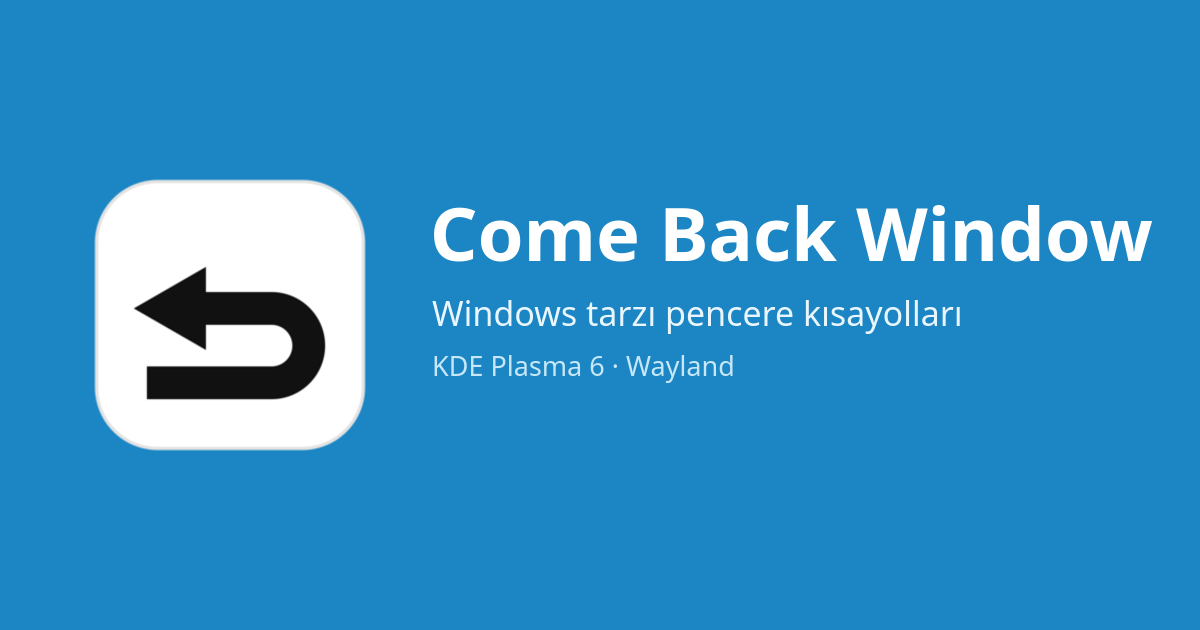
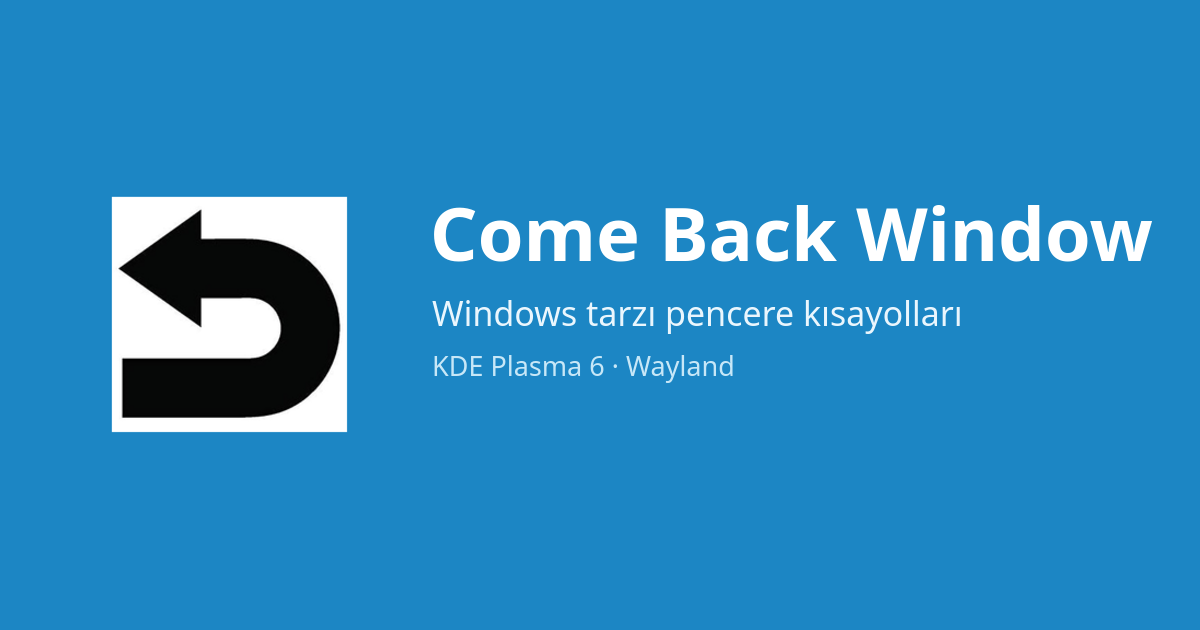
feat(branding): kullanıcı görselinden yuvarlatılmış simge ve çeviri kataloğu
Simgeler artık kullanıcının verdiği comeback.jpg dosyasından üretiliyor: %84 ölçek, yuvarlatılmış köşeler, saydam kenarlar. Tepsi yedek simgesi aynı görseli çiziyor. Geliştirme sırasında İngilizce çeviri kataloğu build/locale altından yükleniyor.

Changed region(s): [[0.0617, 0.2714, 0.3083, 0.7238]]

diff --git a/src/tray.c b/src/tray.c
@@ -90,17 +90,35 @@ static GVariant *build_pixmap(void)
         CAIRO_FORMAT_ARGB32, size, size);
     cairo_t *cr = cairo_create(surface);
 
-    cairo_set_source_rgba(cr, 0.24, 0.68, 0.91, 1.0);
-    cairo_rectangle(cr, 0, 0, size, size);
-    cairo_fill(cr);
+    /* Kullanicinin sagladigi simge: beyaz yuvarlatilmis kare + geri oku. */
+    cairo_set_source_rgba(cr, 0, 0, 0, 0);
+    cairo_paint(cr);
+    gdouble r = 4.5;
+
+    cairo_new_sub_path(cr);
+    cairo_arc(cr, 0.5 + r, 0.5 + r, r, G_PI, 1.5 * G_PI);
+    cairo_arc(cr, size - 0.5 - r, 0.5 + r, r, 1.5 * G_PI, 2.0 * G_PI);
+    cairo_arc(cr, size - 0.5 - r, size - 0.5 - r, r, 0, 0.5 * G_PI);
+    cairo_arc(cr, 0.5 + r, size - 0.5 - r, r, 0.5 * G_PI, G_PI);
+    cairo_close_path(cr);
     cairo_set_source_rgba(cr, 1, 1, 1, 1);
-    cairo_set_line_width(cr, 2.6);
-    cairo_set_line_cap(cr, CAIRO_LINE_CAP_ROUND);
-    cairo_set_line_join(cr, CAIRO_LINE_JOIN_ROUND);
-    cairo_move_to(cr, 13.5, 5.5);
-    cairo_line_to(cr, 7.5, 11);
-    cairo_line_to(cr, 13.5, 16.5);
+    cairo_fill(cr);
+
+    cairo_save(cr);
+    cairo_scale(cr, size / 256.0, size / 256.0);
+    cairo_set_source_rgba(cr, 0.07, 0.07, 0.07, 1.0);
+    cairo_set_line_width(cr, 30.0);
+    cairo_move_to(cr, 52, 190);
+    cairo_line_to(cr, 166, 190);
+    cairo_arc(cr, 166, 156, 34, 0.5 * G_PI, -0.5 * G_PI);
+    cairo_line_to(cr, 104, 122);
     cairo_stroke(cr);
+    cairo_move_to(cr, 40, 122);
+    cairo_line_to(cr, 106, 84);
+    cairo_line_to(cr, 106, 160);
+    cairo_close_path(cr);
+    cairo_fill(cr);
+    cairo_restore(cr);
     cairo_destroy(cr);
     cairo_surface_flush(surface);
 

diff --git a/src/i18n.c b/src/i18n.c
@@ -5,13 +5,46 @@
 
 #include <libintl.h>
 
+/* Kurulu katalog yoksa depodaki `po/` dizinini kullan (geliştirme). */
+static gchar *locale_dir(void)
+{
+    const gchar *override = g_getenv("CBW_LOCALE_DIR");
+
+    if (override != NULL && *override != '\0') {
+        return g_strdup(override);
+    }
+    GError *error = NULL;
+    gchar *exe = g_file_read_link("/proc/self/exe", &error);
+
+    if (exe == NULL) {
+        g_clear_error(&error);
+        return g_build_filename(CBW_DATADIR, "locale", NULL);
+    }
+    gchar *exe_dir = g_path_get_dirname(exe);
+    gchar *root = g_path_get_dirname(exe_dir);
+    gchar *local = g_build_filename(root, "build", "locale", NULL);
+    gchar *catalog = g_build_filename(local, "en", "LC_MESSAGES",
+                                      "comebackwindow.mo", NULL);
+    gboolean has_catalog = g_file_test(catalog, G_FILE_TEST_IS_REGULAR);
+
+    g_free(catalog);
+    g_free(exe);
+    g_free(exe_dir);
+    g_free(root);
+    if (has_catalog) {
+        return local;
+    }
+    g_free(local);
+    return g_build_filename(CBW_DATADIR, "locale", NULL);
+}
+
 void i18n_init(const gchar *language)
 {
     if (language != NULL && *language != '\0'
         && g_strcmp0(language, "auto") != 0) {
         g_setenv("LANGUAGE", language, TRUE);
     }
-    gchar *dir = g_build_filename(CBW_DATADIR, "locale", NULL);
+    gchar *dir = locale_dir();
 
     bindtextdomain(GETTEXT_PACKAGE, dir);
     bind_textdomain_codeset(GETTEXT_PACKAGE, "UTF-8");
